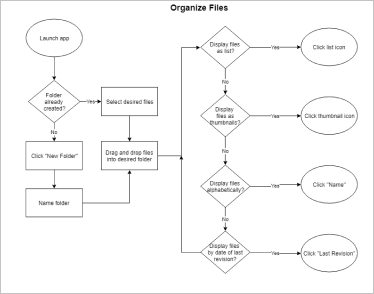
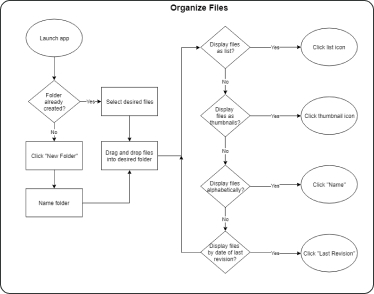
fixed cloudDesk mobile user fow image

Changed region(s): [[0.0, 0.949, 1.0, 1.0], [0.0, 0.0, 1.0, 0.0306]]

diff --git a/cloudDesk.html b/cloudDesk.html
@@ -141,7 +141,7 @@
           </div>
         </section>
         <div class="userFlowsImages">
-          <img src="images/cloudDesk/userFlowMobile.jpg" alt="User Flows" id="userFlows">
+          <img src="images/cloudDesk/userFlowmobile.jpg" alt="User Flows" id="userFlows">
           <img src="images/cloudDesk/userFlowDesktop.jpg" alt="User Flows" id="userFlowDesktop">
         </div>
           <div class="callout">
